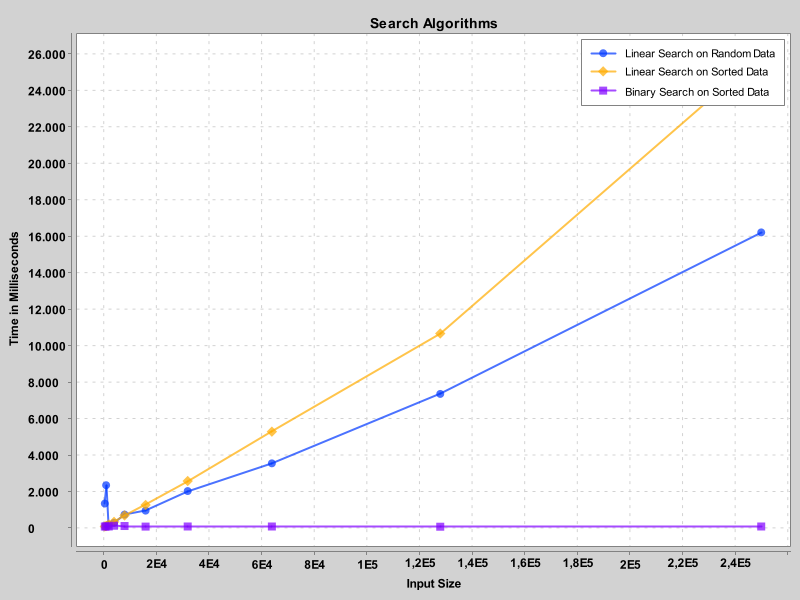
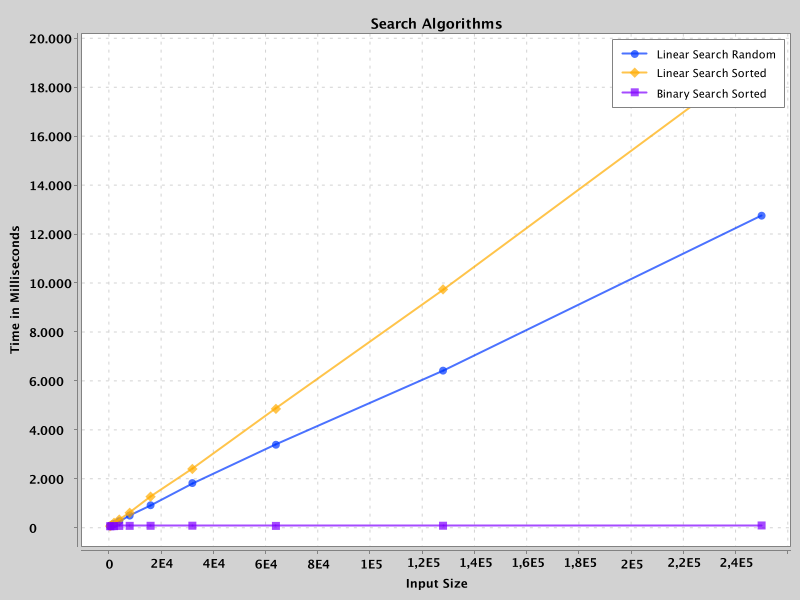
Updated Main method

diff --git a/Assignment 1/Main.java b/Assignment 1/Main.java
@@ -6,6 +6,99 @@ import java.util.Arrays;
 class Main {
     public static void main(String args[]) throws IOException {
 
+        Experiments.warmup();
+
+        sortRandom();
+        sortSorted();
+        sortReverse();
+        searchAll();
+    }
+
+    public static void sortRandom() {
+        int[] inputAxis = {500, 1000, 2000, 4000, 8000, 16000, 32000, 64000, 128000, 250000};
+
+        double[] insertionSort = new double[inputAxis.length];
+        double[] mergeSort = new double[inputAxis.length];
+        double[] countingSort = new double[inputAxis.length];
+        double[][] allSorts = new double[inputAxis.length][3];
+        int i = 0;
+
+        for (int inputs: inputAxis) {
+            allSorts[i] = Experiments.SortRandomData(inputs);
+            insertionSort[i] = allSorts[i][0];
+            mergeSort[i] = allSorts[i][1];
+            countingSort[i] = allSorts[i][2];
+            i++;
+        }
+
+        double[][] yData = new double[][] {insertionSort, mergeSort, countingSort};
+
+        String[] labels = {"Insertion Sort", "Merge Sort", "Counting Sort"};
+
+        try {
+            showAndSaveChart("Sort Algorithms on Random Data", inputAxis, yData, labels);
+        } catch (IOException e) {
+            e.printStackTrace();
+        }
+    }
+
+    public static void sortSorted() {
+        int[] inputAxis = {500, 1000, 2000, 4000, 8000, 16000, 32000, 64000, 128000, 250000};
+
+        double[] insertionSort = new double[inputAxis.length];
+        double[] mergeSort = new double[inputAxis.length];
+        double[] countingSort = new double[inputAxis.length];
+        double[][] allSorts = new double[inputAxis.length][3];
+        int i = 0;
+
+        for (int inputs: inputAxis) {
+            allSorts[i] = Experiments.SortSortedData(inputs);
+            insertionSort[i] = allSorts[i][0];
+            mergeSort[i] = allSorts[i][1];
+            countingSort[i] = allSorts[i][2];
+            i++;
+        }
+
+        double[][] yData = new double[][] {insertionSort, mergeSort, countingSort};
+
+        String[] labels = {"Insertion Sort", "Merge Sort", "Counting Sort"};
+
+        try {
+            showAndSaveChart("Sort Algorithms on Sorted Data", inputAxis, yData, labels);
+        } catch (IOException e) {
+            e.printStackTrace();
+        }
+    }
+
+    public static void sortReverse() {
+        int[] inputAxis = {500, 1000, 2000, 4000, 8000, 16000, 32000, 64000, 128000, 250000};
+
+        double[] insertionSort = new double[inputAxis.length];
+        double[] mergeSort = new double[inputAxis.length];
+        double[] countingSort = new double[inputAxis.length];
+        double[][] allSorts = new double[inputAxis.length][3];
+        int i = 0;
+
+        for (int inputs: inputAxis) {
+            allSorts[i] = Experiments.SortReverseSortedData(inputs);
+            insertionSort[i] = allSorts[i][0];
+            mergeSort[i] = allSorts[i][1];
+            countingSort[i] = allSorts[i][2];
+            i++;
+        }
+
+        double[][] yData = new double[][] {insertionSort, mergeSort, countingSort};
+
+        String[] labels = {"Insertion Sort", "Merge Sort", "Counting Sort"};
+
+        try {
+            showAndSaveChart("Sort Algorithms on Reverse Data", inputAxis, yData, labels);
+        } catch (IOException e) {
+            e.printStackTrace();
+        }
+    }
+
+    public static void searchAll() {
         // X axis data
         int[] inputAxis = {500, 1000, 2000, 4000, 8000, 16000, 32000, 64000, 128000, 250000};
 
@@ -28,11 +121,16 @@ class Main {
         }
 
         double[][] yData = new double[][] {linearSearchRandom, linearSearchSorted, binarySearchSorted};
+        String[] labels = {"Linear Search Random", "Linear Search Sorted", "Binary Search Sorted"};
 
-        showAndSaveChart("Search Algorithms", inputAxis, yData);
+        try {
+            showAndSaveChart("Search Algorithms", inputAxis, yData, labels);
+        } catch (IOException e) {
+            e.printStackTrace();
+        }
     }
 
-    public static void showAndSaveChart(String title, int[] xAxis, double[][] yAxis) throws IOException {
+    public static void showAndSaveChart(String title, int[] xAxis, double[][] yAxis, String[] labels) throws IOException {
         // Create Chart
         XYChart chart = new XYChartBuilder().width(800).height(600).title(title)
                 .yAxisTitle("Time in Milliseconds").xAxisTitle("Input Size").build();
@@ -45,9 +143,9 @@ class Main {
         chart.getStyler().setDefaultSeriesRenderStyle(XYSeries.XYSeriesRenderStyle.Line);
 
         // Add a plot for a sorting algorithm
-        chart.addSeries("Linear Search on Random Data", doubleX, yAxis[0]);
-        chart.addSeries("Linear Search on Sorted Data", doubleX, yAxis[1]);
-        chart.addSeries("Binary Search on Sorted Data", doubleX, yAxis[2]);
+        chart.addSeries(labels[0], doubleX, yAxis[0]);
+        chart.addSeries(labels[1], doubleX, yAxis[1]);
+        chart.addSeries(labels[2], doubleX, yAxis[2]);
 
         // Save the chart as PNG
         BitmapEncoder.saveBitmap(chart, title + ".png", BitmapEncoder.BitmapFormat.PNG);

diff --git a/Assignment 1/Experiments.java b/Assignment 1/Experiments.java
@@ -274,14 +274,18 @@ public class Experiments {
         return array;
     }
 
-    public static void main(String[] args) {
-
+    public static void warmup() {
         for (int warmup = 0; warmup < 100000; warmup++) {
             int[] warmupArray = generateRandomArray(500); // Generate or read and shuffle
             int key = warmupArray[ThreadLocalRandom.current().nextInt(500)];
             LinearSearch.search(warmupArray, key);
             BinarySearch.search(warmupArray, key);
         }
+    }
+
+    public static void main(String[] args) {
+
+        warmup();
 
 
         System.out.println("Sort Random Data");
